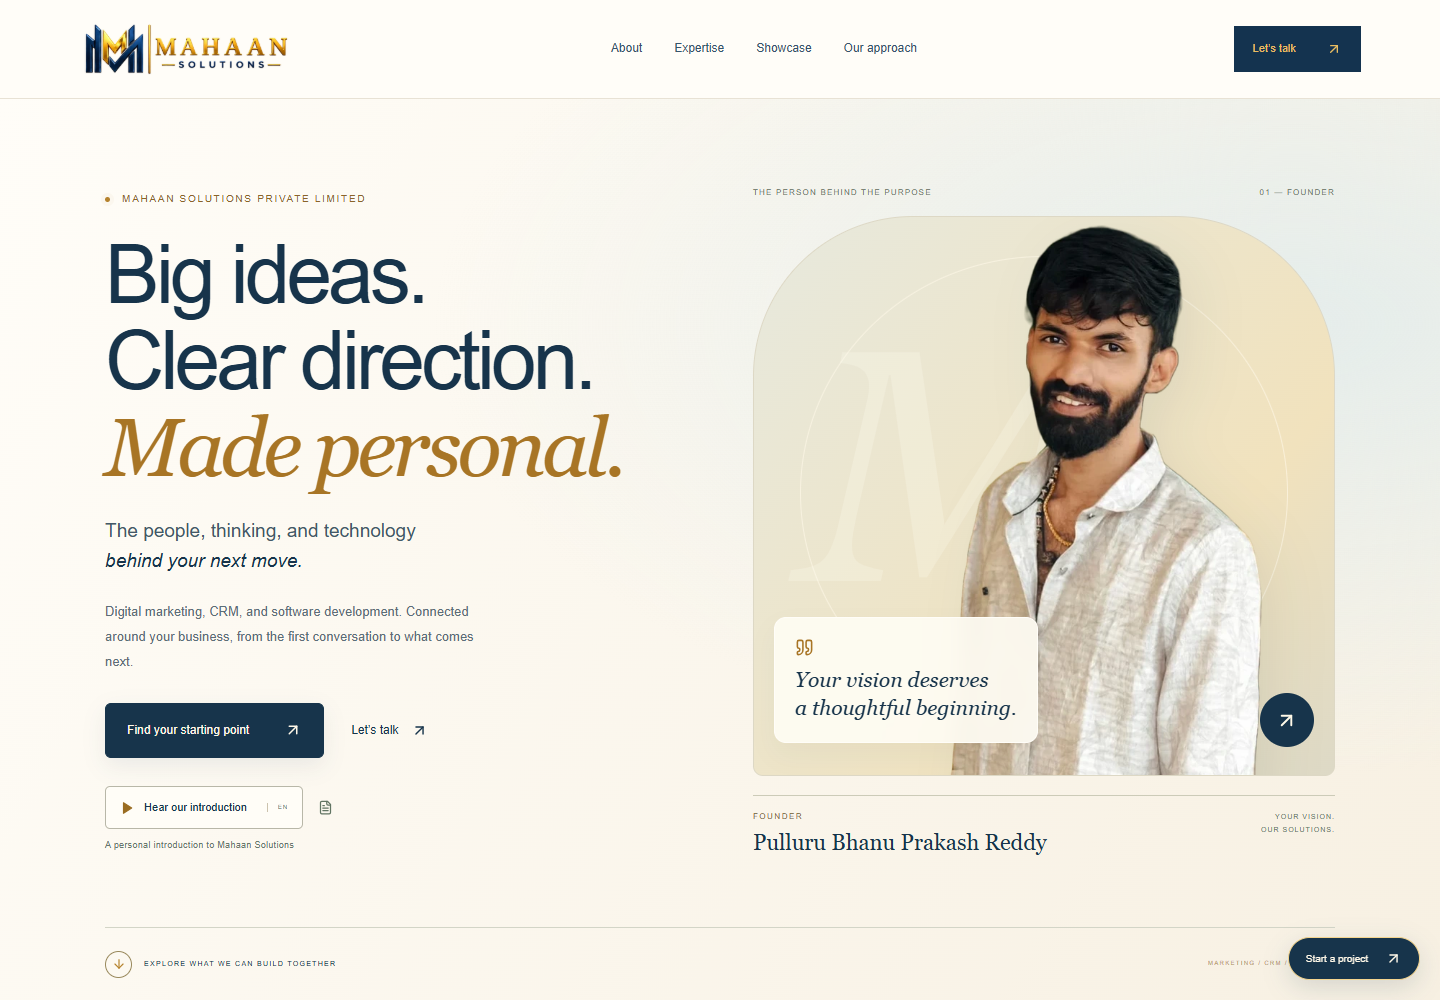
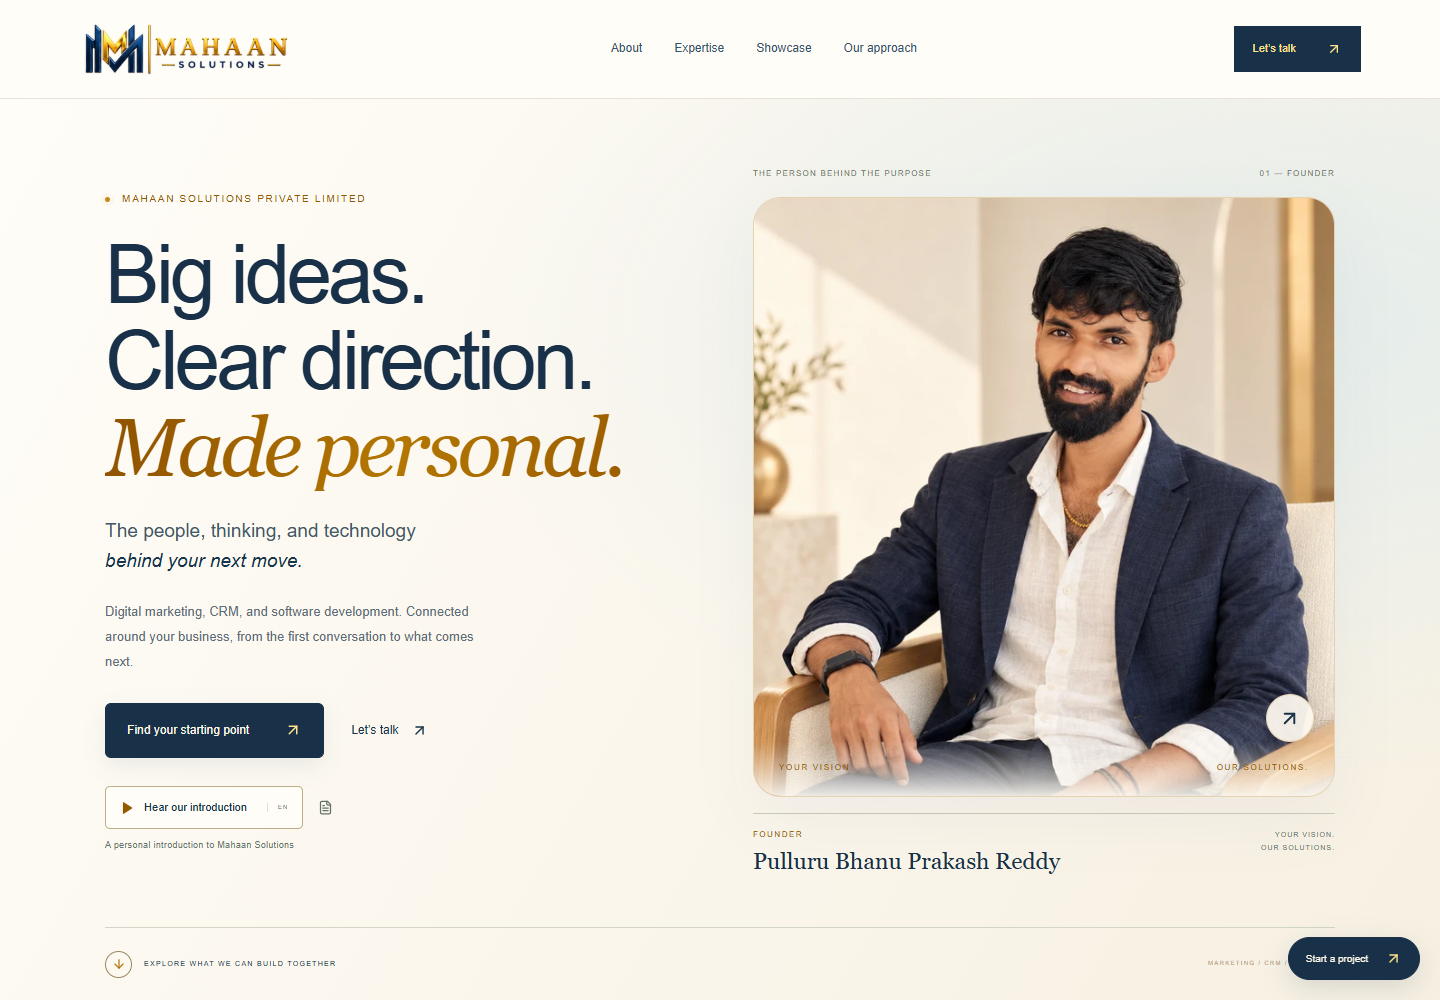
Update Site source

Changed region(s): [[0.5, 0.155, 0.9375, 0.868], [0.0625, 0.403, 0.4375, 0.496], [0.875, 0.031, 0.9062, 0.062]]

diff --git a/src/styles/editorial-experience.css b/src/styles/editorial-experience.css
@@ -1,2 +1,6 @@
 /* Editorial portrait and interactive service journeys replace the human puppet. */
 .editorial-hero{min-height:860px}.editorial-hero h1{font-size:clamp(52px,5.7vw,86px);line-height:1.05}.founder-editorial{align-self:center;min-width:0;position:relative}.portrait-heading{display:flex;justify-content:space-between;gap:16px;color:#6f786b;font-size:8px;letter-spacing:1.2px;margin-bottom:16px}.portrait-gallery{position:relative;height:560px;overflow:hidden;border-radius:160px 160px 10px 10px;background:linear-gradient(130deg,#e7e9de,#f1e2bd 70%,#ddd9c6);isolation:isolate;border:1px solid #ddd8c5}.portrait-gallery>img{position:absolute;height:155%;max-width:none;width:auto;left:50%;top:8px;transform:translateX(-38%);z-index:2;filter:drop-shadow(15px 15px 25px #17344b14)}.portrait-halo{position:absolute;inset:7% 8% 8%;border:1px solid #fff9e9a0;border-radius:50%}.portrait-monogram{position:absolute;left:8%;top:15%;font:italic 330px Georgia,serif;color:#fffdf33b;line-height:1;z-index:1}.portrait-note{position:absolute;left:20px;bottom:32px;z-index:3;padding:20px;background:#fffdf4e8;backdrop-filter:blur(10px);border:1px solid #fffdf8;border-radius:12px;box-shadow:0 12px 25px #17344b0b}.portrait-note svg{color:#a87525;margin-bottom:10px}.portrait-note p{font:italic 21px/1.3 Georgia,serif;color:#17344b}.portrait-connect{position:absolute;right:20px;bottom:28px;z-index:4;display:grid;place-items:center;width:54px;height:54px;border-radius:50%;color:#fff9e8;background:#17344b;transition:transform .25s}.portrait-connect:hover{transform:rotate(45deg)}.portrait-credit{display:flex;justify-content:space-between;gap:20px;margin-top:19px;padding-top:15px;border-top:1px solid #cccbb8}.portrait-credit small{display:block;font-size:8px;letter-spacing:1.5px;color:#7d6b43;margin-bottom:5px}.portrait-credit strong{font:22px/1.25 Georgia,serif;color:#17344b}.portrait-credit>span{font-size:7px;letter-spacing:1px;color:#68786b;text-align:right;line-height:1.8}.solution-stage{height:auto!important;min-height:0!important;transform:none!important;perspective:none}.journey-explorer{padding:25px 24px 20px;background:linear-gradient(145deg,#fffdf8,#f3f3e9);color:#17344b}.journey-title small{font-size:7px;color:#81704a;letter-spacing:1.5px}.journey-title h4{font:26px/1.2 Georgia,serif;margin-top:8px;font-weight:400}.journey-route{display:flex;position:relative;justify-content:space-between;gap:10px;margin:26px 0 12px}.journey-route:before{content:'';position:absolute;left:10%;right:10%;top:17px;height:1px;background:#d7dbc9}.journey-route button{background:transparent;border:0;position:relative;display:flex;align-items:center;flex-direction:column;gap:9px;color:#6e7b6b;font-size:9px;min-width:60px}.journey-route button>span{display:grid;place-items:center;border-radius:50%;width:35px;height:35px;border:1px solid #c2cbb8;background:#f5f4eb;font-size:9px;transition:background .3s,transform .3s}.journey-route button.selected{color:#17344b}.journey-route button.selected>span{background:#17344b;color:#fff8e8;transform:scale(1.1);border-color:#17344b}.journey-canvas{position:relative;height:185px;display:flex;align-items:center;justify-content:center;flex-direction:column;gap:18px;isolation:isolate}.journey-rings{position:absolute;width:180px;height:180px;top:0;z-index:-1}.journey-rings i{position:absolute;inset:16px;border:1px solid #d7dec8;border-radius:50%}.journey-rings i:last-child{inset:0;border-style:dashed;opacity:.6}.journey-token{background:#e9d9b5;color:#17344b;width:86px;height:86px;display:grid;place-items:center;border-radius:24px;box-shadow:0 10px 20px #17344b0c;animation:journey-enter .45s ease both}.journey-artifact{font-size:12px;padding:9px 14px;background:#fffdf8;border:1px solid #d7dbc9;border-radius:30px;animation:journey-enter .45s ease both}.journey-detail{padding:15px 0 0;min-height:100px}.journey-detail>span{color:#8b6d31;letter-spacing:1px;font-size:8px}.journey-detail p{font-size:13px;line-height:1.7;margin-top:7px;color:#53695f}.journey-next{display:flex;align-items:center;justify-content:space-between;width:100%;border:0;border-top:1px solid #d7dbc9;background:none;padding:15px 0 0;color:#17344b;font-size:11px}.journey-next svg{transition:transform .2s}.journey-next:hover svg{transform:translateX(4px)}.solution-console-caption{padding-top:20px}.finale-orb{position:absolute;left:8%;top:18%;display:flex;align-items:center;justify-content:center;flex-direction:column;gap:25px;width:300px;height:300px;background:#fffaf0;border:1px solid #d5c09b;border-radius:50%;color:#17344b;box-shadow:0 0 0 25px #fff9ec55,0 0 0 60px #fff9ec33;transition:transform .4s,background .4s}.finale-orb:hover{transform:rotate(-8deg);background:#ead6af}.finale-orb span{font-size:10px;letter-spacing:3px}.company-finale-copy{margin-left:44%}.company-finale h2{font-size:clamp(50px,6.5vw,94px)}.solution-console[data-motion="paused"] *{animation:none!important;transition:none!important}@keyframes journey-enter{from{opacity:0;transform:translateY(8px) scale(.96)}to{opacity:1;transform:none}}@media(max-width:760px){.editorial-hero{min-height:0}.editorial-hero h1{font-size:55px}.portrait-gallery{height:460px;border-radius:140px 140px 10px 10px}.portrait-gallery>img{height:155%;left:48%}.portrait-note{left:12px;bottom:20px;padding:14px}.portrait-note p{font-size:18px}.portrait-credit strong{font-size:19px}.portrait-credit>span{font-size:6px}.portrait-heading{font-size:6px}.founder-editorial{width:100%}.services-story-layout .solution-console{display:block;position:relative;top:auto;max-width:none}.journey-explorer{padding:22px 20px 18px}.journey-canvas{height:160px}.journey-rings{width:155px;height:155px}.journey-token{width:70px;height:70px;border-radius:20px}.journey-token svg{width:32px}.journey-detail{min-height:95px}.journey-title h4{font-size:25px}.solution-console-heading{padding:13px 18px}.solution-console-caption{padding:18px 20px}.solution-console-caption p{display:block}.solution-console-caption h3{font-size:22px}.solution-index{display:flex}.solution-index>button{padding:13px 10px;flex:1}.finale-orb{position:relative;left:auto;top:auto;margin:15px auto 65px;width:180px;height:180px;gap:10px;box-shadow:0 0 0 18px #fff9ec55,0 0 0 35px #fff9ec33}.finale-orb svg{width:65px;height:65px}.finale-orb span{font-size:8px}.company-finale-copy{margin-left:0}.company-finale h2{font-size:58px}.company-finale-label{margin-top:60px}.portrait-monogram{font-size:260px}}@media(prefers-reduced-motion:reduce){.journey-explorer *,.finale-orb,.portrait-connect{animation:none!important;transition:none!important}}
+/* Seated editorial portrait: full photographic composition, no standing cutout. */
+.studio-gallery{height:600px;border-radius:28px;background:#f4eee1;border:1px solid #e4dccb;box-shadow:0 22px 60px #17344b0c}.studio-gallery>img{position:absolute;inset:0;width:100%;height:100%;max-width:100%;object-fit:cover;object-position:50% 40%;transform:none;filter:none}.studio-caption{position:absolute;bottom:0;left:0;right:0;z-index:3;display:flex;justify-content:space-between;gap:20px;padding:21px 25px;background:linear-gradient(transparent,#fbf8f1e8);color:#17344b;font-size:8px;letter-spacing:1.7px}.studio-gallery .portrait-connect{bottom:54px;right:20px;background:#fffdf3ed;color:#17344b;border:1px solid #d0c8b2;width:48px;height:48px}.portrait-credit{margin-top:16px}.portrait-credit strong{font-size:23px}@media(max-width:760px){.studio-gallery{height:470px;border-radius:22px}.studio-gallery>img{height:100%;width:100%;left:0;object-position:50% 34%}.studio-caption{padding:18px;font-size:7px}.portrait-credit strong{font-size:19px}}
+/* Keep the complete hairstyle visible in the desktop portrait crop. */
+.studio-gallery>img{object-position:50% 0%}

diff --git a/src/components/HomeHero.tsx b/src/components/HomeHero.tsx
@@ -1,4 +1,4 @@
 'use client';
-import {ArrowUpRight,ArrowDown,Quote} from 'lucide-react';
+import {ArrowUpRight,ArrowDown} from 'lucide-react';
 import {NarrationButton} from './FounderVoice';
-export default function HomeHero(){return <section className="hero home-hero editorial-hero" id="home"><div className="home-hero-copy"><div className="eyebrow"><span className="live-dot"/> MAHAAN SOLUTIONS PRIVATE LIMITED</div><h1>Big ideas.<br/>Clear direction.<br/><span>Made personal.</span></h1><p className="home-hero-statement">The people, thinking, and technology<br/><em>behind your next move.</em></p><p className="home-hero-description">Digital marketing, CRM, and software development. Connected around your business, from the first conversation to what comes next.</p><div className="home-hero-actions"><a className="button button-gold" href="#expertise">Find your starting point <ArrowUpRight size={18}/></a><a href="#contact" className="home-secondary-cta">Let’s talk <ArrowUpRight size={17}/></a></div><div className="hero-founder-control"><NarrationButton scene="intro" label="Hear our introduction"/><span>A personal introduction to Mahaan Solutions</span></div></div><div className="founder-editorial"><div className="portrait-heading"><span>THE PERSON BEHIND THE PURPOSE</span><span>01 — FOUNDER</span></div><div className="portrait-gallery"><div className="portrait-halo"/><span className="portrait-monogram" aria-hidden="true">M</span><img src="/images/founder/editorial-portrait.webp" alt="Pulluru Bhanu Prakash Reddy, founder of Mahaan Solutions" fetchPriority="high"/><div className="portrait-note"><Quote size={19}/><p>Your vision deserves<br/>a thoughtful beginning.</p></div><a className="portrait-connect" href="#contact" aria-label="Talk to the founder"><ArrowUpRight size={23}/></a></div><div className="portrait-credit"><div><small>FOUNDER</small><strong>Pulluru Bhanu Prakash Reddy</strong></div><span>YOUR VISION.<br/>OUR SOLUTIONS.</span></div></div><div className="home-hero-baseline"><a href="#expertise"><span><ArrowDown size={14}/></span> EXPLORE WHAT WE CAN BUILD TOGETHER</a><span>MARKETING / CRM / SOFTWARE</span></div></section>}
+export default function HomeHero(){return <section className="hero home-hero editorial-hero" id="home"><div className="home-hero-copy"><div className="eyebrow"><span className="live-dot"/> MAHAAN SOLUTIONS PRIVATE LIMITED</div><h1>Big ideas.<br/>Clear direction.<br/><span>Made personal.</span></h1><p className="home-hero-statement">The people, thinking, and technology<br/><em>behind your next move.</em></p><p className="home-hero-description">Digital marketing, CRM, and software development. Connected around your business, from the first conversation to what comes next.</p><div className="home-hero-actions"><a className="button button-gold" href="#expertise">Find your starting point <ArrowUpRight size={18}/></a><a href="#contact" className="home-secondary-cta">Let’s talk <ArrowUpRight size={17}/></a></div><div className="hero-founder-control"><NarrationButton scene="intro" label="Hear our introduction"/><span>A personal introduction to Mahaan Solutions</span></div></div><div className="founder-editorial"><div className="portrait-heading"><span>THE PERSON BEHIND THE PURPOSE</span><span>01 — FOUNDER</span></div><div className="portrait-gallery studio-gallery"><img src="/images/founder/studio-portrait-v2.webp" srcSet="/images/founder/studio-portrait-v2-small.webp 640w, /images/founder/studio-portrait-v2.webp 1024w" sizes="(max-width:760px) 88vw, 42vw" alt="AI-assisted editorial portrait of Pulluru Bhanu Prakash Reddy, founder of Mahaan Solutions" fetchPriority="high"/><div className="studio-caption"><span>YOUR VISION.</span><span>OUR SOLUTIONS.</span></div><a className="portrait-connect" href="#contact" aria-label="Talk to the founder"><ArrowUpRight size={23}/></a></div><div className="portrait-credit"><div><small>FOUNDER</small><strong>Pulluru Bhanu Prakash Reddy</strong></div><span>YOUR VISION.<br/>OUR SOLUTIONS.</span></div></div><div className="home-hero-baseline"><a href="#expertise"><span><ArrowDown size={14}/></span> EXPLORE WHAT WE CAN BUILD TOGETHER</a><span>MARKETING / CRM / SOFTWARE</span></div></section>}

diff --git a/src/styles/brand-palette.css b/src/styles/brand-palette.css
@@ -1,0 +1,20 @@
+/* Canonical palette derived from the supplied metallic logo.
+   Logo amber/shadows: #B07000 / #905000. Highlights: #FFD040.
+   Use the deeper gold for readable text; reserve highlights for decoration. */
+:root{--brand-navy:#183048;--brand-gold:#b07000;--gold-text:#945800;--gold-metal:#c38b16;--gold-highlight:#ffd040;--gold-soft:#fff1c4;--gold-border:#b0700038;--ink:#183048;--gold:#b07000;--paper:#fbf8f1;--brand-ivory:#fbf8f1;--brand-muted:#596b70}
+.home-hero h1,.section-heading h2,.company-intro h2,.principles-heading h2,.faq-section h2,.contact h2,.company-finale h2,.business-service-card h3,.portrait-credit strong,.journey-title h4{color:var(--brand-navy)}
+.home-hero h1>span{color:var(--gold-text);background:linear-gradient(105deg,#8e5100 0%,#b47700 48%,#925300 100%);background-clip:text;-webkit-background-clip:text;-webkit-text-fill-color:transparent}
+h2 em,.section-light h2 em,.contact h2 em,.company-finale h2 em,.company-promise strong{color:var(--gold-text)}
+.home-hero .eyebrow,.portrait-credit small,.journey-title small,.journey-detail>span,.solution-console-caption>span,.business-problem>span,.studio-caption{color:var(--gold-text)}
+.section-label,.section-light .section-label,.contact .section-label,.contact-dot,.service-card-top,.business-service-card .service-card-top{color:var(--brand-muted)}
+.live-dot,.performance-beats i{background:var(--gold-metal)}
+.button-gold,.nav-cta,.floating-contact{background:var(--brand-navy);border-color:var(--brand-navy);color:#fff9e8}
+.button-gold>svg,.nav-cta>svg,.floating-contact>svg{color:#ffe08b}.nav-cta{color:#ffe08b}.button-gold:hover,.nav-cta:hover,.floating-contact:hover{background:#254760;color:#fff9e8}
+.home-secondary-cta:hover,.nav-links a:hover,.direct-contact>a:hover,.footer-legal a:hover{color:var(--gold-text)}
+.narration-button>svg,.transcript-button:hover,.business-service-card .service-card-top>svg,.service-deliverables svg,.principle-grid svg,.principle-grid article>div>span,.contact-arrow{color:var(--gold-text)}
+.narration-button{border-color:#bdad88}.voice-language{border-color:var(--gold-border)}.narration-transcript{border-color:var(--brand-gold)}
+.portrait-gallery{border-color:var(--gold-border)}.portrait-connect{background:var(--brand-navy);color:#fff4cf}.studio-gallery .portrait-connect{color:var(--brand-navy);border-color:var(--gold-border);background:#fffaf0ed}.studio-caption{background:linear-gradient(transparent,#fbf8f1ed)}
+.business-service-card.chapter-active{border-color:var(--gold-metal);box-shadow:0 12px 40px #b070000c}.service-filters button.active{background:var(--brand-navy);border-color:var(--brand-navy)}
+.solution-index>button.is-active{background:var(--gold-soft)!important;color:var(--brand-navy)!important}.journey-route button.selected>span{background:var(--brand-navy);border-color:var(--brand-navy);color:#fff4cf}.journey-token{background:linear-gradient(135deg,#fff0b8,#e7c36f);color:var(--brand-navy);border:1px solid #cf9b3040}.journey-rings i{border-color:var(--gold-border)}.journey-artifact{border-color:var(--gold-border)}
+.company-principles{background:#f7f0df}.company-finale{background:radial-gradient(ellipse at 20% 50%,#f2deb0,transparent 43%),#f6eedc}.finale-orb{border-color:#c8973c;background:#fffbef;color:var(--brand-navy);box-shadow:0 0 0 25px #fff9e955,0 0 0 60px #fff9e933}.finale-orb:hover{background:#f6df9d}
+.form-field input:focus-visible,.form-field select:focus-visible,.form-field textarea:focus-visible{outline-color:var(--brand-gold)}button:focus-visible,a:focus-visible{outline-color:var(--gold-text)}::selection{background:#ffe6a0;color:var(--brand-navy)}

diff --git a/src/app/layout.tsx b/src/app/layout.tsx
@@ -3,6 +3,7 @@ import './globals.css';
 import '@/styles/brand-v3.css';
 import '@/styles/light-editorial.css';
 import '@/styles/editorial-experience.css';
+import '@/styles/brand-palette.css';
 export const metadata: Metadata = {
   metadataBase: new URL(process.env.NEXT_PUBLIC_SITE_URL || 'http://localhost:3000'),
   title:{default:'Mahaan Solutions — Your Vision. Our Solutions.', template:'%s | Mahaan Solutions'},

diff --git a/docs/CURRENT-EXPERIENCE.md b/docs/CURRENT-EXPERIENCE.md
@@ -1,6 +1,6 @@
 # Current portfolio experience
 
-The active design has removed CartoonFounder and FounderPuppet from the page. No body deformation, synthetic blinking, walking, or speaking face is rendered. The founder appears once in an editorial portrait using the supplied original photograph. The image is cropped and resized without retouching the face.
+The active design has removed CartoonFounder and FounderPuppet from the page. No body deformation, synthetic blinking, walking, or speaking face is rendered. The founder appears once in an AI-assisted seated editorial portrait generated from the supplied original photograph. It preserves recognisable features while changing wardrobe, pose, lighting and environment. It is a synthetic portrait, not an exact pixel-for-pixel reproduction or an actual studio photograph. Responsive WebP assets are used for the page; the original source and earlier portrait are retained.
 
 ServiceJourney provides three interactive stages for each confirmed service. Visitors can select a stage or advance through the approach. Its small transitions honor pause and reduced-motion preferences. The closing has a direct contact invitation instead of another founder character.
 

diff --git a/docs/BRAND-PALETTE.md b/docs/BRAND-PALETTE.md
@@ -1,0 +1,7 @@
+# Logo-matched palette
+
+The supplied metallic logo contains multiple gold tones. Pixel sampling found frequent amber shadow values near #A06000 and #B07000, alongside bright yellow highlights near #FFD040. A metallic logo cannot be represented by one flat text color while preserving both appearance and contrast.
+
+The final stylesheet src/styles/brand-palette.css centralizes the palette: navy #183048, base gold #B07000, readable text gold #945800, decorative gold #C38B16, highlight #FFD040 and ivory #FBF8F1. Main headings and body text use navy; gold is reserved for emphasis, icons, selected states and details. Bright logo highlights are not used for small text on ivory.
+
+The logo image itself is preserved. The seated AI-assisted founder portrait is included in the same update; its reference, originals and exact generation prompt are retained in source.
